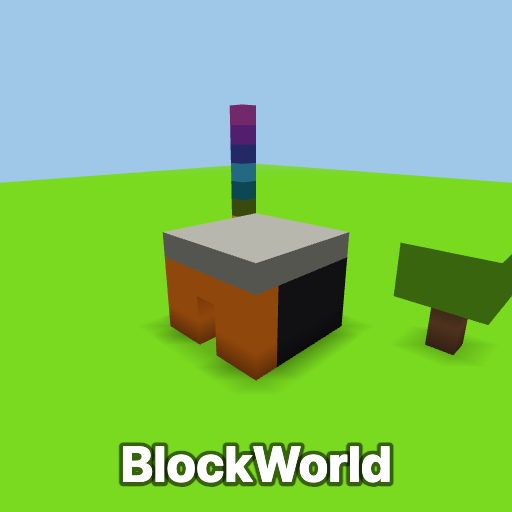
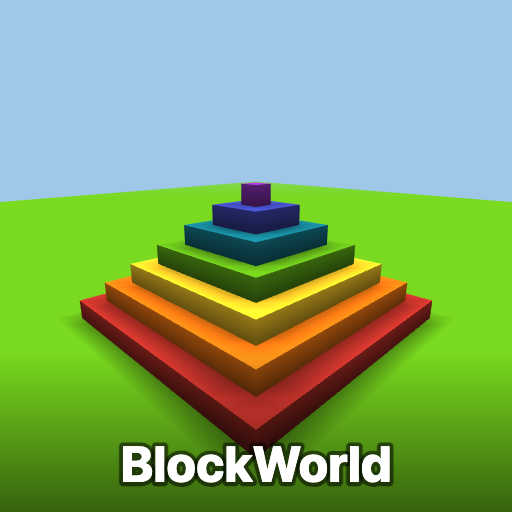
feat(art): rainbow-pyramid thumbnail rendered by the real engine; title baked in

diff --git a/scripts/thumb.html b/scripts/thumb.html
@@ -17,28 +17,18 @@ import { createWorldView } from '../lib/render/world-view.js';
 const w = createWorld();
 fillFloor(w, 8); // grass
 const cx = 64, cz = 64;
-// a small colorful house
-for (let y = 1; y <= 3; y++) {
-  for (let d = -2; d <= 2; d++) {
-    setBlock(w, cx - 2, y, cz + d, 4);  // red wall
-    setBlock(w, cx + 2, y, cz + d, 11); // blue wall
-    setBlock(w, cx + d, y, cz - 2, 6);  // orange wall
-    setBlock(w, cx + d, y, cz + 2, 7);  // yellow wall
-  }
+
+// A bold rainbow step-pyramid built from real blocks — fills the tile and reads at thumbnail size.
+const cols = [5, 6, 7, 8, 10, 12, 13]; // red, orange, yellow, green, teal, blue, purple
+for (let l = 0; l < cols.length; l++) {
+  const r = cols.length - 1 - l;
+  for (let dx = -r; dx <= r; dx++) for (let dz = -r; dz <= r; dz++) setBlock(w, cx + dx, 1 + l, cz + dz, cols[l]);
 }
-for (let d = -2; d <= 2; d++) for (let e = -2; e <= 2; e++) setBlock(w, cx + d, 4, cz + e, 2); // gray roof
-setBlock(w, cx, 1, cz - 2, 0); setBlock(w, cx, 2, cz - 2, 0); // doorway
-// a little tower of every color
-const cols = [5, 6, 7, 9, 10, 11, 12, 13, 14];
-for (let i = 0; i < cols.length; i++) setBlock(w, cx + 6, 1 + i, cz + 5, cols[i]);
-// a tree
-for (let y = 1; y <= 3; y++) setBlock(w, cx - 6, y, cz + 4, 16); // brown trunk
-for (let lx = -7; lx <= -5; lx++) for (let lz = 3; lz <= 5; lz++) for (let y = 3; y <= 4; y++) setBlock(w, cx + lx, y, cz + lz, 8);
 
 const glCanvas = document.getElementById('c');
 const view = createWorldView(glCanvas, w);
 view.rebuildAll();
-const cam = { pos: [cx - 9, 8.5, cz - 9], yaw: Math.PI * 0.25, pitch: -0.32 };
+const cam = { pos: [cx - 12, 9.5, cz - 12], yaw: Math.PI * 0.25, pitch: -0.28 };
 view.render(cam);
 requestAnimationFrame(() => {
   view.render(cam);
@@ -48,6 +38,10 @@ requestAnimationFrame(() => {
   const out = document.createElement('canvas'); out.width = 512; out.height = 512;
   const g = out.getContext('2d');
   g.drawImage(glCanvas, 0, 0, 512, 512);
+  // Soft bottom scrim so the title stays legible over any scene.
+  const grad = g.createLinearGradient(0, 512 - 160, 0, 512);
+  grad.addColorStop(0, 'rgba(0,0,0,0)'); grad.addColorStop(1, 'rgba(0,0,0,0.55)');
+  g.fillStyle = grad; g.fillRect(0, 512 - 160, 512, 160);
   g.font = '800 50px system-ui, -apple-system, sans-serif';
   g.textAlign = 'center'; g.lineJoin = 'round';
   g.lineWidth = 9; g.strokeStyle = 'rgba(0,0,0,0.55)'; g.strokeText('BlockWorld', 256, 482);